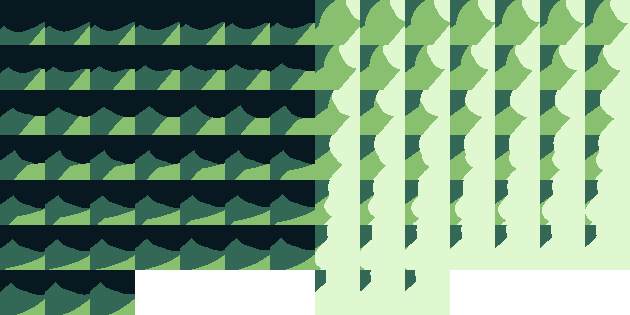
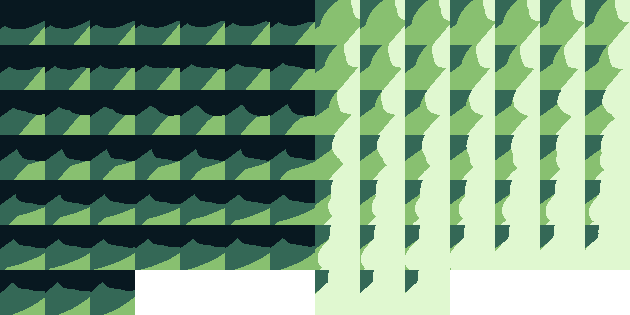
Fix the psychovisual factor a bit to make VGA look better without hurting EGA.

diff --git a/internal/palette/lut.go b/internal/palette/lut.go
@@ -32,7 +32,7 @@ import (
 
 var (
 	paletteColordist             = flag.String("palette_colordist", "weighted", "color distance function to use; one of 'weighted', 'weightedL', 'rgbL', 'redmean', 'cielab', 'cieluv'")
-	palettePsychovisualFactor    = flag.Float64("palette_psychovisual_factor", 0.02, "factor by which to include the psychovisual model when generating a two-color palette LUT")
+	palettePsychovisualFactor    = flag.Float64("palette_psychovisual_factor", 0.03, "factor by which to include the psychovisual model when generating a two-color palette LUT")
 	palettePsychovisualDampening = flag.Float64("palette_psychovisual_dampening", 0.5, "factor by which to dampen the psychovisual model when mixing evenly")
 )
 
